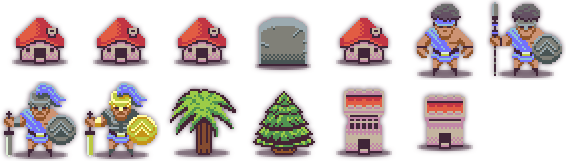
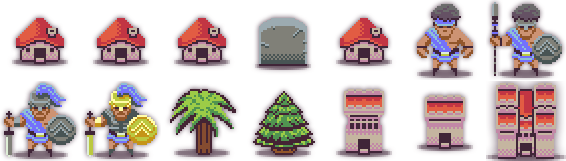
Stop off-turn units jumping and give bases a castle sprite
Only the active fraction's ready units bob now; enemy/idle units stay put.
Province capitals render the castle sprite instead of the plain house, so
the main base reads distinctly. Pack the castle frame into the slim web
atlas (gen-sprites + atlas.png + sprites.ts).

Changed region(s): [[0.841, 0.4969, 1.0, 1.0]]

diff --git a/web/client/render.ts b/web/client/render.ts
@@ -3,7 +3,7 @@
 // Hex outlines are drawn on territory borders only, like the original.
 
 import { NEUTRAL_FRACTION } from "./game/constants";
-import type { GameState, HexObj, HexTile } from "./game/types";
+import type { Fraction, GameState, HexObj, HexTile } from "./game/types";
 import { type Camera, HEX_SIZE, worldToScreen } from "./camera";
 import { hexCorners, hexToPixel } from "./hex";
 import { settings } from "./settings";
@@ -29,6 +29,8 @@ export interface RenderState {
   dimNonZone: boolean;
   /** Time in ms for animations. */
   now: number;
+  /** Fraction whose turn it is; only its units animate (jump). */
+  activeFraction: Fraction;
   /** Fog of war: indices the viewer can see. null = no fog (see everything). */
   fog?: Set<number> | null;
 }
@@ -435,7 +437,8 @@ function drawObject(
       drawSprite(ctx, "palm", cx, cy, size);
       break;
     case "town":
-      drawSprite(ctx, "house", cx, cy, size);
+      // Province capital / main base — distinct castle sprite, not a house.
+      drawSprite(ctx, "castle", cx, cy, size);
       break;
     case "tower":
       drawSprite(ctx, "tower", cx, cy, size);
@@ -464,9 +467,10 @@ function drawUnit(
   rs: RenderState
 ) {
   const unit = hex.unit!;
-  // Original units jump in place while they can still move.
+  // Original units jump in place while they can still move — but only the
+  // player whose turn it is. Enemy/idle units stay put off-turn.
   let bob = 0;
-  if (unit.readyToMove && settings.unitAnimations) {
+  if (unit.readyToMove && hex.fraction === rs.activeFraction && settings.unitAnimations) {
     const t = (rs.now / 380 + hex.index * 0.7) % 1;
     bob = -Math.abs(Math.sin(t * Math.PI)) * s * 0.18;
   }

diff --git a/web/client/sprites.ts b/web/client/sprites.ts
@@ -26,6 +26,7 @@ export const SPRITES: Record<string, SpriteRect> = {
   pine: { x: 243, y: 81, w: 80, h: 80 },
   strong_tower: { x: 324, y: 81, w: 80, h: 80 },
   tower: { x: 405, y: 81, w: 80, h: 80 },
+  castle: { x: 486, y: 81, w: 80, h: 80 },
 };
 
 export const ICON_COIN_URL = "https://cdn.jsdelivr.net/gh/0verwritten/Antiyoy-Remaster@master/assets/coin.png";

diff --git a/web/client/screens/replay.tsx b/web/client/screens/replay.tsx
@@ -81,6 +81,7 @@ export function ReplayViewer({
         zone: null,
         dimNonZone: false,
         now: performance.now(),
+        activeFraction: stateRef.current.turn,
       }, cssW, cssH);
     };
     raf = requestAnimationFrame(draw);

diff --git a/web/client/screens/game.tsx b/web/client/screens/game.tsx
@@ -1166,6 +1166,7 @@ function buildRenderState(
     zone,
     dimNonZone: dim,
     now: performance.now(),
+    activeFraction: state.turn,
   };
 }
 
